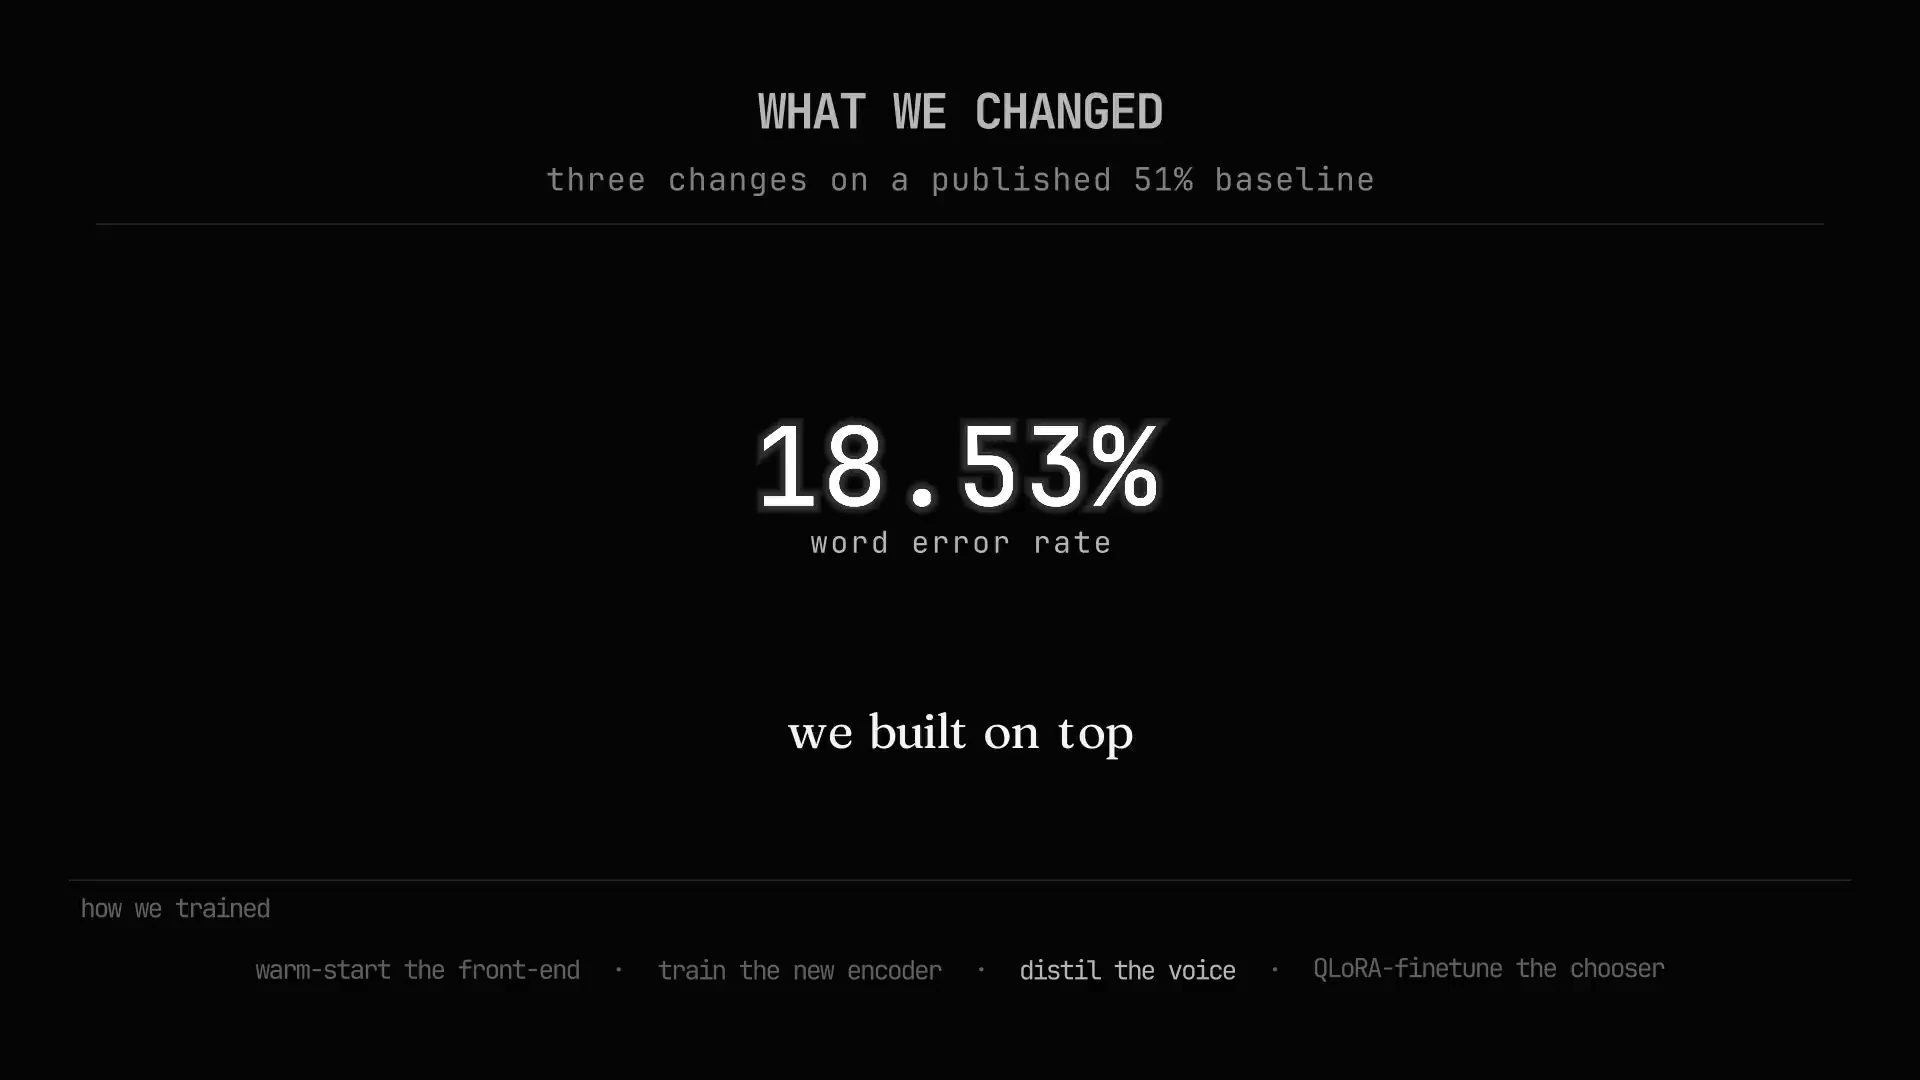
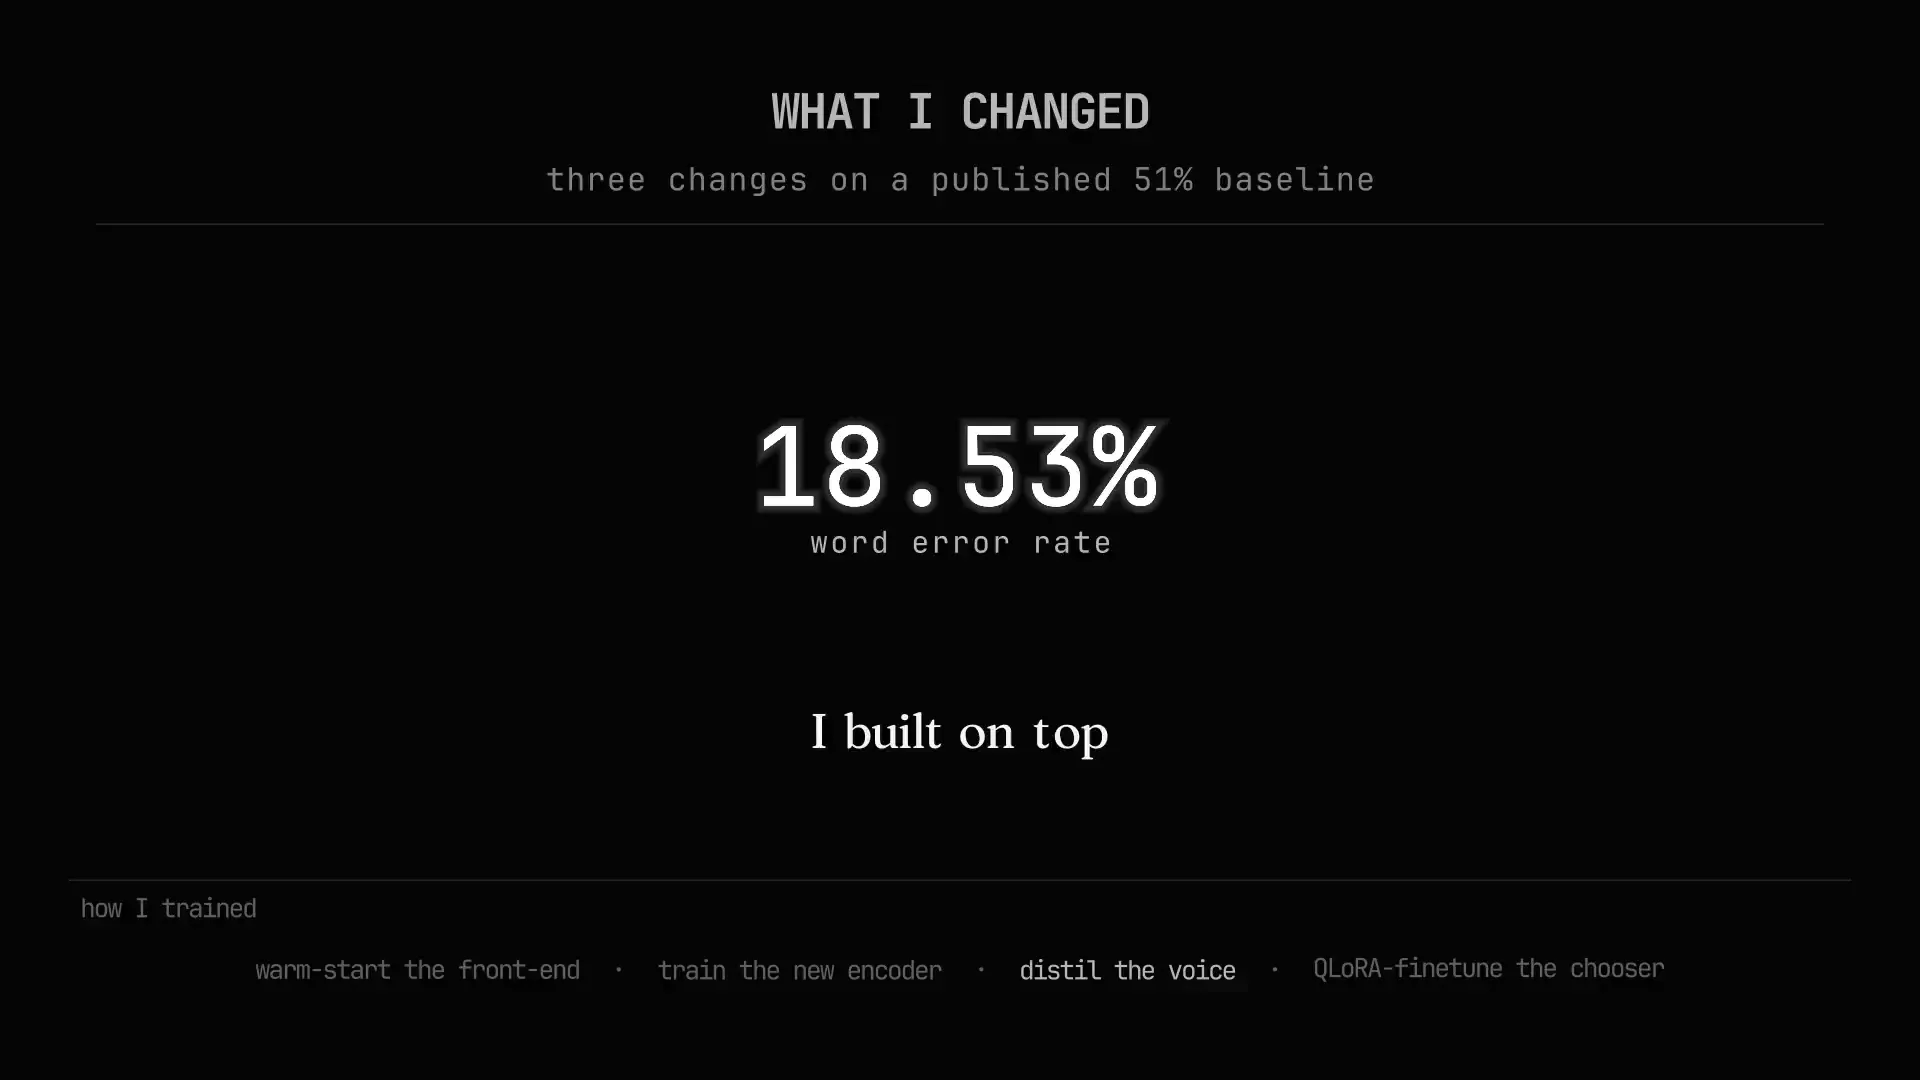
Changed from "We" to 'I"

Changed region(s): [[0.375, 0.0611, 0.625, 0.1222], [0.4062, 0.6417, 0.5938, 0.7028], [0.0625, 0.825, 0.1562, 0.8556]]

diff --git a/website/src/data/stages.ts b/website/src/data/stages.ts
@@ -86,7 +86,7 @@ export const STAGES: readonly Stage[] = [
   act2(
     'why', 'Why',
     'Why this exists.',
-    'Three research-paper cards fan in and collapse onto a UC Davis name plate (Gowda, Miller, with Comstock and McNaughton); a "what we changed" block stacks onto a "their foundation" block; a fifty-tick timeline labelled "the same science — made to watch" lights up.',
+    'Three research-paper cards fan in and collapse onto a UC Davis name plate (Gowda, Miller, with Comstock and McNaughton); a "what I changed" block stacks onto a "their foundation" block; a fifty-tick timeline labelled "the same science — made to watch" lights up.',
     'Research papers are a wall of math almost nobody reads. This is that same science — made to watch: about fifty short scenes, built on one UC Davis lab’s work, then pushed further.',
   ),
   act2(
@@ -344,12 +344,12 @@ export const STAGES: readonly Stage[] = [
     'Four descending markers 51.17, 40.63, 26.14, 18.53 percent word-error, with a phoneme-error track that drops then barely moves on the last move.',
     'Three moves: fix the decode, look both ways while copying the teacher voice, then combine readers and add the chooser. The sound-error fell on move two — it truly heard better — but barely moved on move three.',
   ),
-  // ---- Closing: what we changed, who we built on, and thanks ----
+  // ---- Closing: what I changed, who I built on, and thanks ----
   act2(
-    'approach', 'What we changed',
-    'What we changed — and how we trained.',
-    "A 'what we changed' ledger: three before→after rows — scale-1.0 decode → tuned open-vocab decode, causal TDS → bidirectional Conformer + distillation, single 1-best → ensemble/n-best/7B rerank — while a word-error readout ticks 51.17 down to 18.53 and a training recipe runs along the bottom.",
-    'On top of a published 51% baseline we made three changes: a tuned open-vocabulary decode, a full-context bidirectional Conformer distilled from the parallel voice (training only), and a two-model ensemble pooled into n-best lists that a QLoRA-tuned 7B language model reranks — 51% → 18.5% word error.',
+    'approach', 'What I changed',
+    'What I changed — and how I trained.',
+    "A 'what I changed' ledger: three before→after rows — scale-1.0 decode → tuned open-vocab decode, causal TDS → bidirectional Conformer + distillation, single 1-best → ensemble/n-best/7B rerank — while a word-error readout ticks 51.17 down to 18.53 and a training recipe runs along the bottom.",
+    'On top of a published 51% baseline I made three changes: a tuned open-vocabulary decode, a full-context bidirectional Conformer distilled from the parallel voice (training only), and a two-model ensemble pooled into n-best lists that a QLoRA-tuned 7B language model reranks — 51% → 18.5% word error.',
   ),
   act2(
     'silent', 'Silent speech',
@@ -360,14 +360,14 @@ export const STAGES: readonly Stage[] = [
   act2(
     'foundation', 'Foundation',
     'None of this starts without the team at UC Davis.',
-    "Two foundation stones — the 'geometric perspective' paper and the 'emg2speech' corpus — bear a small 'our pipeline' block; a glowing name plate reads Harshavardhana T. Gowda, with Zachary D. McNaughton, Daniel C. Comstock and Lee M. Miller, UC Davis.",
-    'The corpus, the 31-channel sensor array, the SPD geometric features, and the EMG-to-text decoder all came out of UC Davis — Harshavardhana T. Gowda, with Zachary D. McNaughton, Daniel C. Comstock and Lee M. Miller. Our pipeline is a small block resting on that foundation; we only built upward.',
+    "Two foundation stones — the 'geometric perspective' paper and the 'emg2speech' corpus — bear a small 'my pipeline' block; a glowing name plate reads Harshavardhana T. Gowda, with Zachary D. McNaughton, Daniel C. Comstock and Lee M. Miller, UC Davis.",
+    'The corpus, the 31-channel sensor array, the SPD geometric features, and the EMG-to-text decoder all came out of UC Davis — Harshavardhana T. Gowda, with Zachary D. McNaughton, Daniel C. Comstock and Lee M. Miller. My pipeline is a small block resting on that foundation; I only built upward.',
   ),
   act2(
     'credits', 'Credits',
     'Every method here was borrowed — and credited.',
     'A two-column credit ledger pairing each method with the work it came from — Conformer (Gulati), WavLM (Chen), HuBERT (Hsu), CTC (Graves), TDS (Hannun), cross-modal distillation + LLM rerank (Benster / MONA), WFST decode (Povey, k2/icefall), LibriSpeech (Panayotov), Qwen2.5, and QLoRA (Dettmers) — closing on "composition, not invention".',
-    'We invented none of the building blocks. The Conformer, WavLM, HuBERT units, CTC, the TDS front-end, the MONA-style cross-modal distillation and LLM reranking, the k2/icefall decode, the LibriSpeech lexicon, Qwen2.5 and QLoRA — each came from someone else’s work. This is composition, not invention.',
+    'I invented none of the building blocks. The Conformer, WavLM, HuBERT units, CTC, the TDS front-end, the MONA-style cross-modal distillation and LLM reranking, the k2/icefall decode, the LibriSpeech lexicon, Qwen2.5 and QLoRA — each came from someone else’s work. This is composition, not invention.',
   ),
   act2(
     'thanks', 'Thank you',

diff --git a/website/anim/45-approach.py b/website/anim/45-approach.py
@@ -41,7 +41,7 @@ class Approach(Scene):
         LY = -3.18
 
         # ----- persistent frame mobjects (built up across beats 1-2) -----
-        top1 = mono("WHAT WE CHANGED", 26, INK_DIM, w=BOLD).move_to([0, 3.18, 0])
+        top1 = mono("WHAT I CHANGED", 26, INK_DIM, w=BOLD).move_to([0, 3.18, 0])
         top2 = mono("three changes on a published 51% baseline", 17, INK_FAINT).move_to(
             [0, 2.66, 0])
         rule = Line([-6.4, 2.34, 0], [6.4, 2.34, 0], stroke_color=LINE, stroke_width=1.2)
@@ -52,7 +52,7 @@ class Approach(Scene):
         read_tag.add_updater(lambda m: m.next_to(readout, LEFT, buff=0.18))
 
         # bottom recipe rail — held at ghost throughout
-        recipe_title = mono("how we trained", 14, INK_GHOST).move_to([0, LY + 0.46, 0])
+        recipe_title = mono("how I trained", 14, INK_GHOST).move_to([0, LY + 0.46, 0])
         recipe_title.align_to(LEFT * 6.5, LEFT)
         led_rule = Line([-6.6, LY + 0.66, 0], [6.6, LY + 0.66, 0],
                         stroke_color=LINE, stroke_width=1.0)
@@ -159,7 +159,7 @@ class Approach(Scene):
                   Flash([0, 0.55, 0], color=WHITE, line_length=0.2, num_lines=14,
                         flash_radius=1.4, time_width=0.4), run_time=0.55)
 
-        closing = serif("we built on top", 26, INK).move_to([0, -1.45, 0])
+        closing = serif("I built on top", 26, INK).move_to([0, -1.45, 0])
         self.play(Write(closing), run_time=0.5)
         self.wait(0.7)
 

diff --git a/website/anim/47-foundation.py b/website/anim/47-foundation.py
@@ -46,7 +46,7 @@ class Foundation(Scene):
         #  BEAT 1 — "look at the ground all of this stood on"  (1.87s)    #
         # ============================================================== #
         self.next_section("cap")
-        top1 = mono("THE GROUND WE STOOD ON", 26, INK_DIM, w=BOLD).move_to([0, 3.16, 0])
+        top1 = mono("THE GROUND I STOOD ON", 26, INK_DIM, w=BOLD).move_to([0, 3.16, 0])
         rule = Line([-6.4, 2.64, 0], [6.4, 2.64, 0], stroke_color=LINE, stroke_width=1.2)
         self.play(FadeIn(top1, shift=DOWN * 0.14), Create(rule), run_time=0.6)
         self.wait(1.27)
@@ -88,7 +88,7 @@ class Foundation(Scene):
                                stroke_color=INK, stroke_width=2.2,
                                fill_color=BG, fill_opacity=0)
         our_lbl = VGroup(
-            mono("our pipeline", 17, INK),
+            mono("my pipeline", 17, INK),
             mono("bidirectional Conformer · ensemble · rerank", 12.5, INK_FAINT),
         ).arrange(DOWN, buff=0.10)
         our_block = VGroup(our, our_lbl)
@@ -145,7 +145,7 @@ class Foundation(Scene):
         #  BEAT 6 — "we only built upward"  (0.68s)                      #
         # ============================================================== #
         self.next_section("upward")
-        upward = mono("all from UC Davis — we only built upward", 15, INK_FAINT).next_to(
+        upward = mono("all from UC Davis — I only built upward", 15, INK_FAINT).next_to(
             credit, DOWN, buff=0.12)
         self.play(FadeIn(upward), run_time=0.38)
         self.wait(0.3)

diff --git a/website/anim/02-why.py b/website/anim/02-why.py
@@ -68,7 +68,7 @@ class Why(Scene):
         found_t.move_to(found.get_center())
         found_g = VGroup(found, found_t).move_to([0, -1.4, 0])
         ours = RoundedRectangle(width=3.0, height=0.85, corner_radius=0.08).set_stroke("#ffffff", 2).set_fill(INK, 0.06)
-        ours_t = mono("what we changed", 19, INK)
+        ours_t = mono("what I changed", 19, INK)
         ours_t.move_to(ours.get_center())
         ours_g = VGroup(ours, ours_t).next_to(found_g, UP, buff=0.3)
         arrow = mono("the next pages →", 17, INK_FAINT).next_to(ours_g, UP, buff=0.3)

diff --git a/website/src/content/technical_report.md b/website/src/content/technical_report.md
@@ -1,13 +1,13 @@
 # Surface-EMG-to-Text: From a 51% Baseline to 18.5% WER
 
-**A technical report.** We decode open-vocabulary English text from 31-channel surface
+**A technical report.** I decode open-vocabulary English text from 31-channel surface
 electromyography (sEMG) of vocalized speech, on the single-subject *emg2speech* General Corpus.
-Starting from the published 51.17% WER of Gowda et al. (Appendix D.4), we (i) recover the missing
+Starting from the published 51.17% WER of Gowda et al. (Appendix D.4), I (i) recover the missing
 open-vocabulary decode hyperparameters to reach a faithful **40.63% WER / 39.02% PER** baseline;
 (ii) replace the causal encoder with a **bidirectional Conformer trained by four-term cross-modal
 distillation** against the parallel audio's WavLM-Large layer-9 features, for **26.14% WER /
 22.34% PER** acoustic-only; and (iii) add a **two-model acoustic ensemble → multi-scale n-best union
-→ LLM reranker (LIFT)** to reach **18.53% WER**. We also report a negative result that bounds the
+→ LLM reranker (LIFT)** to reach **18.53% WER**. I also report a negative result that bounds the
 approach: reranking is exhausted at 18.5% because the binding constraint is the EMG **acoustic** PER
 (~20.9%), not the language model — the correct words are absent from the acoustic posteriors, so no
 reranker can close the gap to the 9.30% n-best oracle.
@@ -69,7 +69,7 @@ floor). EMG is vocalized (not silent) speech with time-aligned audio — the par
 Phoneme posteriors → words with `HLG = H ∘ L ∘ G` via k2 / icefall [9] (`decode.py`) — the same
 graph the authors use, so PER matches the paper directly.
 
-### 3.3 What was missing, and what we added
+### 3.3 What was missing, and what I added
 The public notebooks omit the decode-time hyperparameters that turn good posteriors into good words:
 1. **Acoustic scale** — notebooks decode at scale 1.0, over-weighting the LM (~75% WER); must be tuned.
 2. **Blank penalty** — CTC posteriors are blank-dominant (peak ≈ 0.92). On val[:200] at scale 1.0,
@@ -85,9 +85,9 @@ Tuned `(scale, blank)` on val, applied `(1.0, 2.0)` once to test.
 | System | val WER | val PER | TEST WER | TEST PER |
 |---|---|---|---|---|
 | Gowda et al., Appendix D.4 [1] | — | — | 51.17 | 38.19 |
-| **Ours — TDS+CTC, corrected decode** | 53.12 | 45.31 | **40.63** | **39.02** |
+| **This work — TDS+CTC, corrected decode** | 53.12 | 45.31 | **40.63** | **39.02** |
 
-We beat the published WER by **10.5 points while matching PER** (39.0 vs 38.2). Matched PER is the
+I beat the published WER by **10.5 points while matching PER** (39.0 vs 38.2). Matched PER is the
 credibility argument: the acoustic model reproduces faithfully (decoder-independent error is
 identical), so the WER gain is attributable to a correctly specified open-vocabulary decode, not to
 any model change. This checkpoint warm-starts the headline encoder (Section 4).
@@ -101,13 +101,13 @@ four-term cross-modal distillation objective against the parallel audio.
 
 ### 4.1 Full-context encoding
 The upstream TDS is **causal** (left-pads by `kernelWidth−1`) — correct for streaming, a handicap for
-the offline task. We replace it with a **bidirectional Conformer** [15] (`models/conformer.py`):
+the offline task. I replace it with a **bidirectional Conformer** [15] (`models/conformer.py`):
 4 layers, multi-head self-attention + depthwise conv (`conf_layers=4`, `conf_heads=4`, `conf_ffn=1024`,
 `conf_kernel=31`), keeping the same front-end, two CTC heads, and WavLM projection. The front-end and
 heads warm-start from Section 3.4; the Conformer trains fresh.
 
 ### 4.2 The four-term objective (`training/distill.py`, `losses.py`)
-PER is decoder-independent: only a better acoustic model lowers it. We pull the EMG encoder toward the
+PER is decoder-independent: only a better acoustic model lowers it. I pull the EMG encoder toward the
 parallel audio's **WavLM-Large layer-9** features [8] (precomputed for all 9,660 sentences,
 `ssl/extract.py`) through one linear projection into WavLM's 1,024-dim space (construction inspired by
 MONA [4]):
@@ -144,20 +144,20 @@ for the silent-speech setting, where the parallel audio is unavailable.
 ## 5. Final pipeline: ensemble → n-best union → LIFT rerank → 18.53
 
 ### 5.1 Acoustic ensemble
-We average per-frame phone log-probs of two encoders: the WavLM-L9-distilled Conformer (Section 4) and an
+I average per-frame phone log-probs of two encoders: the WavLM-L9-distilled Conformer (Section 4) and an
 **anti-overfit augmented** Conformer (`training/augment.py`, "p2": stronger jitter/dropout, BiLSTM
 audio-teacher frame-KL via `training/recognizer.py`). Ensembling alone: 26.14 → **~20.1 WER**.
 Notably, the augmented model's **PER is unchanged** from the distilled one (~20.9%) — the ensemble
 gain is decode-level diversity, not better phonetics (foreshadowing Section 5.4).
 
 ### 5.2 Multi-scale n-best union (`nbest.py`, `union.py`)
-From the ensemble's HLG lattice we extract n-best lists at several acoustic scales (k2 `random_paths`
+From the ensemble's HLG lattice I extract n-best lists at several acoustic scales (k2 `random_paths`
 + `Nbest.intersect`) and **union** them. The union lowers the **n-best oracle WER to 9.30%** (the best
 achievable by picking the single best candidate per utterance) while the 1-best stays ~20%. The gap
 between 9.30 (oracle) and 20 (1-best) is the headroom a reranker can in principle recover.
 
 ### 5.3 LIFT reranker (`rerank/`)
-We fine-tune **Qwen2.5-7B-Instruct** with **QLoRA** (4-bit nf4 + LoRA r=16) to map *(n-best candidates
+I fine-tune **Qwen2.5-7B-Instruct** with **QLoRA** (4-bit nf4 + LoRA r=16) to map *(n-best candidates
 + detected phonemes) → reference* (DCoND-LIFT-style [4]). Two variants, selected on val: **free**
 (generate the correction — can recover oracle misses but can hallucinate) and **constrained** (pick
 the highest-scored candidate — cannot hallucinate). Leakage controls: